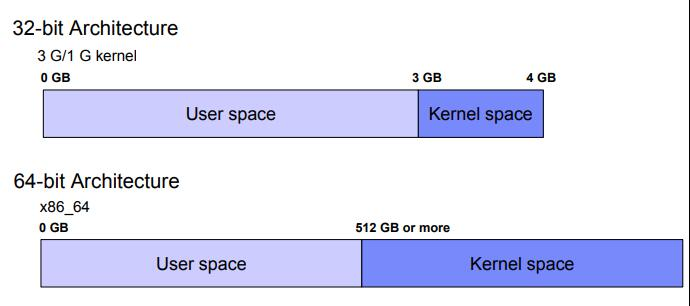
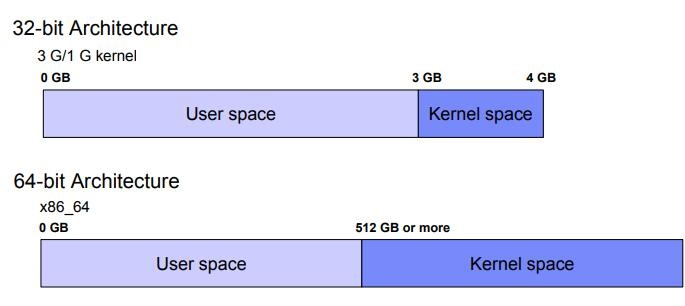
1.2.2

diff --git a/src/chapter-01/02.Linux内存结构.md b/src/chapter-01/02.Linux内存结构.md
@@ -6,7 +6,7 @@
 
 正如您在 [@fig:memory_layout] 中所看到的，在 32 位和 64 位系统中，Linux 内核处理内存的方式有明显的不同。详细探讨物理到虚拟的映射超出了本文的范围，在此我们仅强调一些 Linux 内存架构的细节。
 
-![32 位和 64 位系统的 Linux 内核内存布局](images/memory_layout.jpg){#fig:memory_layout}
+![32 位和 64 位系统的 Linux 内核内存布局](images/memory_layout.jpg){#fig:memory_layout width=70% height=50%}
 
 在 32 位体系结构（如 IA-32) 上，Linux 内核只能直接访问物理内存的前千兆字节（考虑预留范围时为 896 MB)。超出 ZONE_NORMAL 的内存需要映射到 1GB 以下。这种映射对应用程序是完全透明的，但是在 ZONE_HIGHMEM 中分配内存页会导致性能略有下降。
 
@@ -15,10 +15,50 @@
 #### 虚拟内存寻址布局
 [@fig:vm_address_layout] 显示用于 32 位和 64 位体系结构的 Linux 虚拟寻址布局。
 
-![32 位和 64 位架构的虚拟内存寻址布局](images/vm_address_layout.jpg){#fig:vm_address_layout}
+![32 位和 64 位架构的虚拟内存寻址布局](images/vm_address_layout.jpg){#fig:vm_address_layout width=70%}
 
 在 32 位体系结构上，单个进程可以访问的最大地址空间是 4GB。这是从 32 位虚拟寻址派生出来的限制。在标准实现中，虚拟地址空间被划分为 3GB 的用户空间和 1GB 的内核空间。有一些变体，如 4G/4G 寻址布局实现。
 
 另一方面，在 64 位体系结构（如 x86_64 和 ia64) 上，没有这样的限制。每个进程都可以从巨大的地址空间中受益。
 
 ### 虚拟内存管理
+操作系统的物理内存架构通常对应用程序和用户是隐藏的，因为操作系统将任何内存映射到虚拟内存中。如果我们想了解 Linux 操作系统中的调优可能性，我们必须了解 Linux 如何处理虚拟内存。正如在 1.2.1 节 “物理和虚拟内存” 中所解释的，应用程序并不分配物理内存，而是在 Linux 内核中请求一个特定大小的内存映射，作为交换，在虚拟内存中接收一个映射。如 [@fig:vm_manage] 所示，虚拟内存不一定要映射到物理内存。如果应用程序分配了大量内存，其中一些内存可能会映射到磁盘子系统上的交换文件（_swap_）。
+
+[@fig:vm_manage] 显示了应用程序通常不直接写入磁盘子系统，而是写入缓存或缓冲区。_pdflush_ 内核线程然后在有时间或文件大小超过缓冲区缓存时将缓存/缓冲区中的数据刷新到磁盘。请参阅 1.4.2 节的“刷新脏缓冲区”。
+
+![Linux 虚拟内存管理器](images/vm_manage.jpg)
+
+与 Linux 内核处理对物理磁盘子系统的写操作密切相关的是 Linux 内核管理磁盘缓存的方式。其他操作系统只分配一部分内存作为磁盘缓存，而 Linux 处理内存资源的效率要高得多。虚拟内存管理器的默认配置将所有可用的空闲内存空间分配为磁盘缓存。因此，经常会看到拥有数 GB 内存但只有 20MB 可用内存的高效 Linux 系统。
+
+在同一上下文中，Linux 也非常有效地处理交换空间。交换空间的使用并不意味着内存瓶颈，而是证明了 Linux 处理系统资源的效率。详情请参阅本节下文的“页帧回收”。
+
+#### 页帧分配
+
+页是物理内存（页帧）或虚拟内存中一组连续的线性地址。Linux 内核使用这个页面单元来处理内存。一个页面通常有 4K 字节大小。当一个进程请求一定数量的页面时，如果有可用的页面，Linux 内核可以立即将它们分配给进程。否则，页面必须从其他进程或页面缓存中获取。内核知道有多少内存页可用，以及它们位于何处。
+
+#### 伙伴系统（_Buddy system_）
+Linux 内核使用一种称为伙伴系统（_Buddy system_）的机制来维护它的空闲页面。伙伴系统维护空闲页面，并尝试为页面分配请求分配页面。它试图保持内存区域的连续。如果小页面不加考虑地分散在一起，可能会导致内存碎片，而且将很大一部分页面分配到连续的区域会更加困难。它可能会导致内存使用效率低下和性能下降。[@fig:buddy_system] 展示了 伙伴系统如何分配页面。
+
+![伙伴系统](images/buddy_system.jpg)
+
+当页面分配尝试失败时，将激活页面回收。请参阅下文的“页帧回收”。
+
+你可以通过`/proc/buddyinfo`找到关于伙伴系统的信息。详情请参见 2.3.5 节的"Memory used in a zone"。
+
+#### 页帧回收
+如果在进程请求映射一定数量的页面时页面不可用，则 Linux 内核试图通过释放某些页（这些页以前使用过，但不再使用，并且根据某些原则仍然标记为活动页）并将内存分配给新进程来获取新请求所需的页。这个过程称为页帧回收（_page reclaiming_）。_kswapd_ 内核线程和 `try_to_free_page()` 内核函数负责页面回收。
+
+kswapd 通常在可中断状态中睡眠，当一个区域（zone）中的空闲页面低于阈值时，伙伴系统（_buddy system_）将调用它。它试图根据最近最少使用 (_LRU_) 原则从活动页面中找到要删除的候选页面。最近最少使用的页面应该首先被释放。活动（active）列表和非活动（inactive）列表用于维护候选页面。kswapd 扫描活动列表的一部分，并检查最近页面被使用的情况，将最近未使用的页面被放入非活动列表。您可以使用 `vmstat -a` 命令查看有多少内存被认为是活动的和不活动的。详情请参阅 2.3.2 节的 “vmstat”。
+
+kswapd 还遵循另一个原则。页面主要用于两个目的：页面缓存（_page cache_）和进程地址空间（_process address space_）。页面缓存是映射到磁盘上文件的页面。属于进程地址空间的页面（称为匿名内存，因为它没有映射到任何文件，而且它没有名称）用于堆和堆栈。参考 [@sec:process_memory] "进程内存段"。当 kswapd 回收页面时，它宁愿收缩页面缓存，也不愿 page out（或 swap out）进程拥有的页面。
+
+::: {.info caption="Page out 和 swap out"}
+“page out” 和 “swap out” 这两个词有时令人困惑。“page out” 的意思是将一些页面（整个地址空间的一部分）放入交换空间，而 “swap out” 的意思是将整个地址空间放入交换空间。它们有时可以互换使用。
+:::
+
+被回收的页面缓存和被回收的进程地址空间的很大一部分可能取决于使用场景，并将影响性能。你可以使用 `/proc/sys/vm/swappiness` 来控制这种行为。请参阅 4.5.1 节，“设置内核交换和 pdflush 行为” 了解调优细节。
+
+#### swap
+如前所述，当发生页面回收时，属于进程地址空间的非活动列表中的候选页面可能会被换出。交换本身并不是问题。虽然交换只不过是在其他操作系统中主内存分配过多的情况下的一种保证，但 Linux 使用交换空间的效率要高得多。在 [@fig:vm_manage] 中可以看到，虚拟内存由物理内存和磁盘子系统或交换分区组成。如果 Linux 中的虚拟内存管理器意识到已经分配了一个内存页，但在很长一段时间内没有使用它，它会将这个内存页移动到交换空间。
+
+通常，您会看到诸如 getty ^[getty 是 “get teletype” 的缩写，它是一个 Unix 程序，用来连接物理的或虚拟终端。] 之类的守护进程，它们将在系统启动时启动，但几乎不会被使用。 显然释放这种页面的昂贵主内存并将内存页面移动到交换分区会更有效。 Linux 正是这样处理 swap 的，所以不用担心 swap 分区被填满了 50%。swap 空间正在被使用的事实并不表示内存瓶颈； 相反，它证明了 Linux 处理系统资源的效率。
